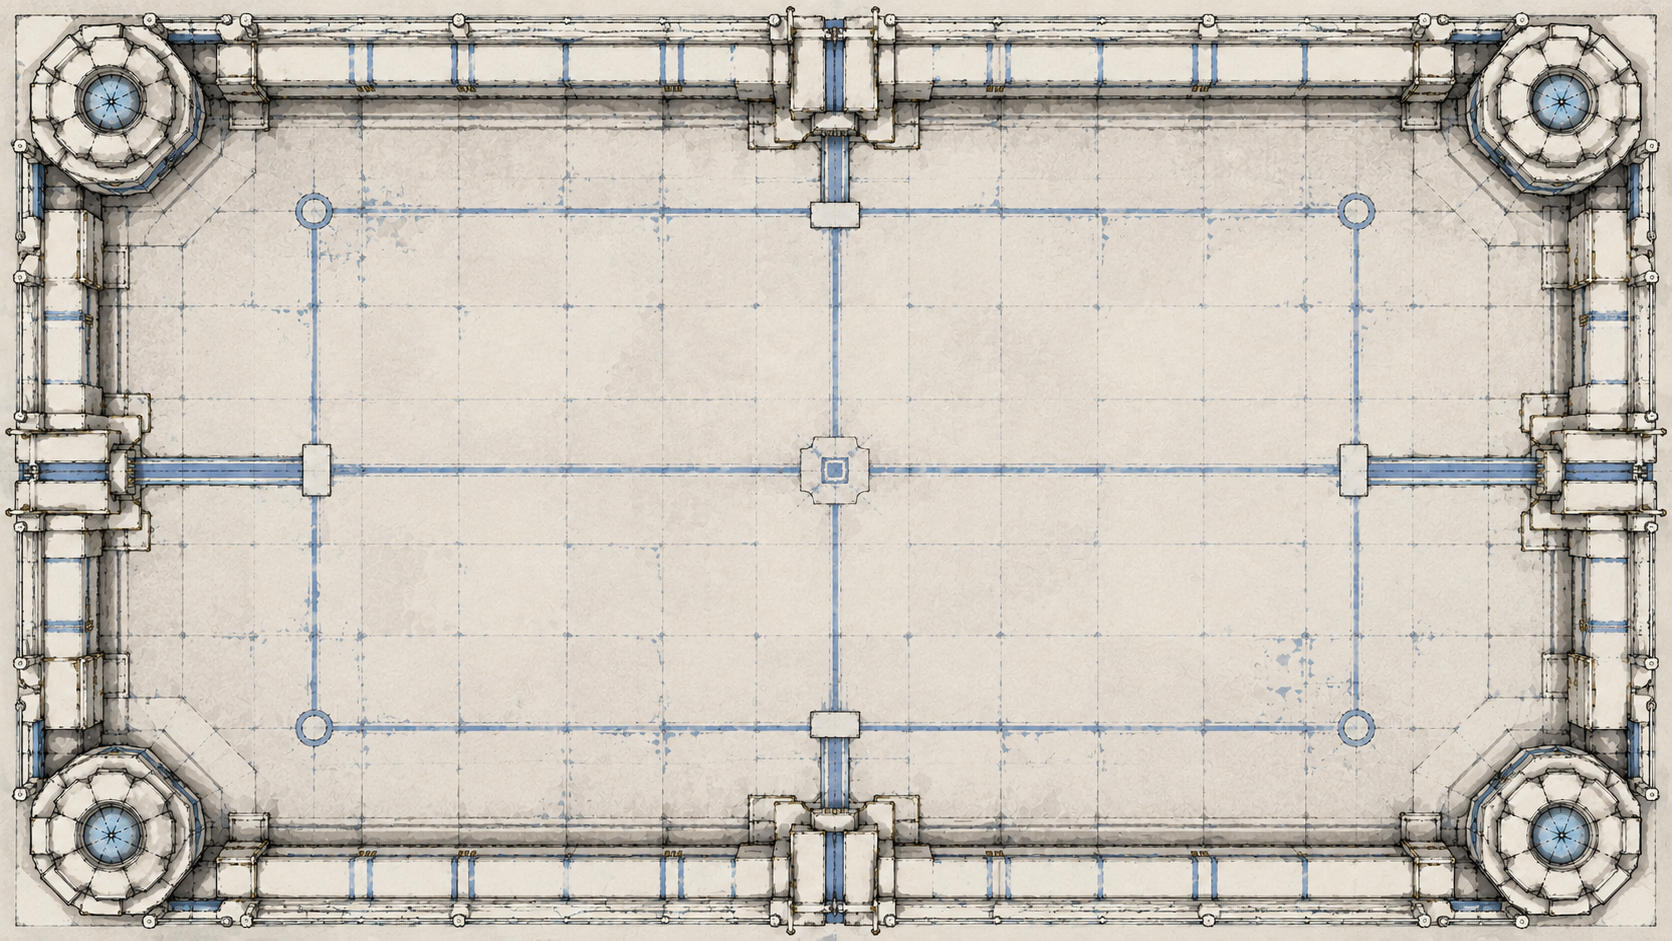
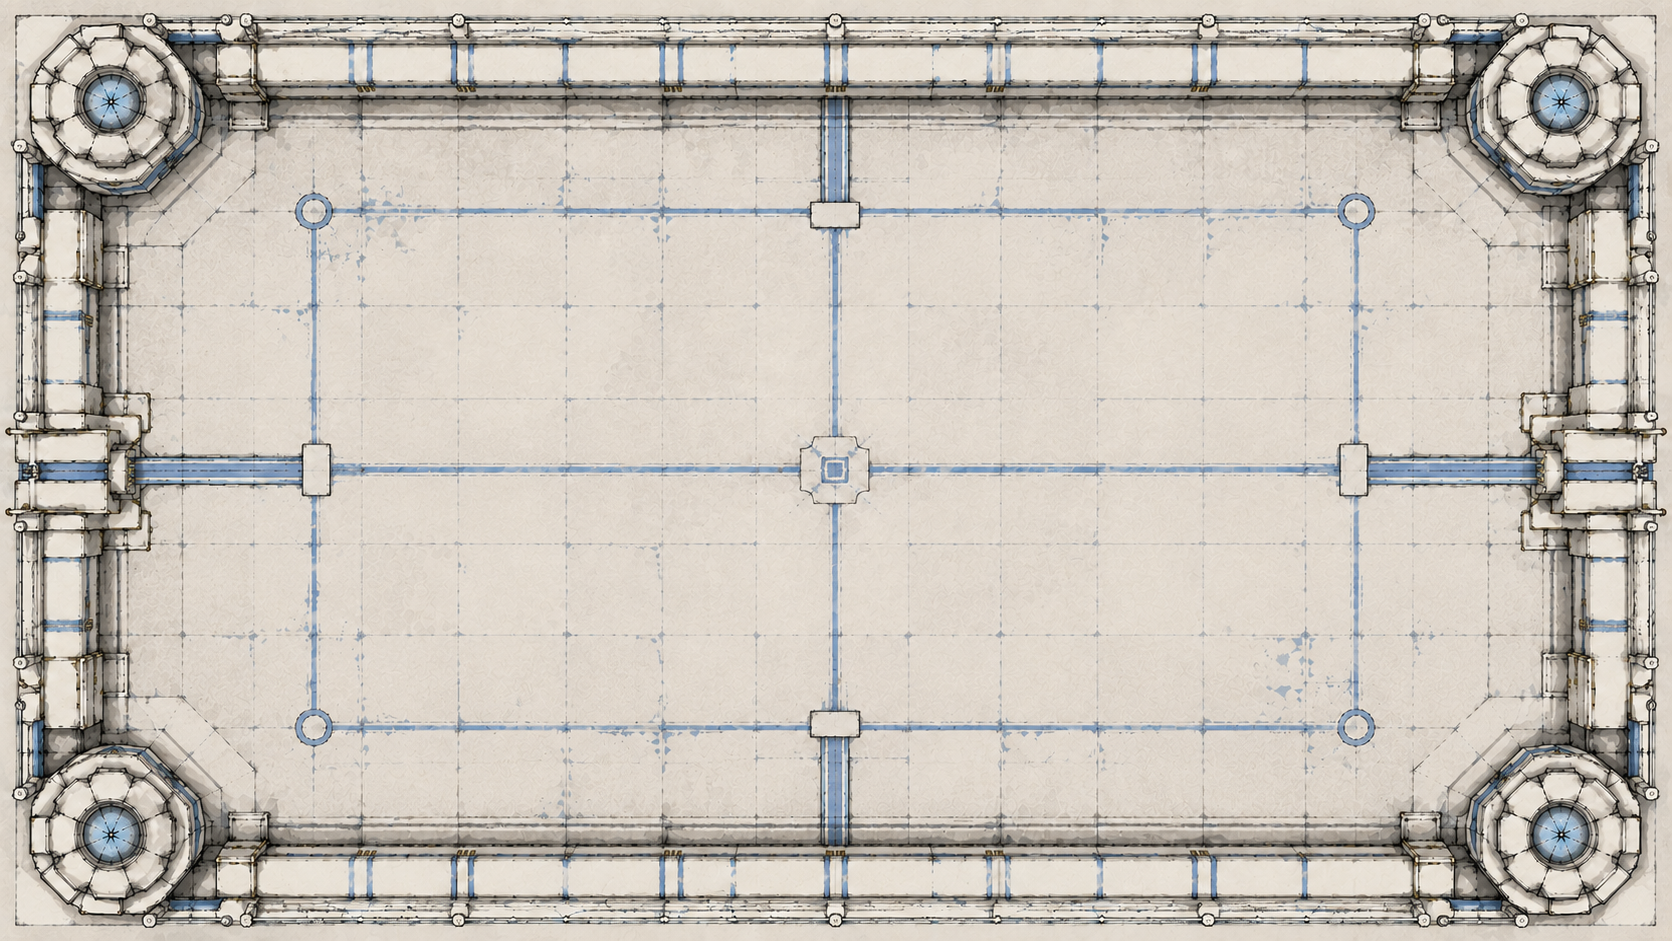
arena: integrate layered Old Sluice gate and collisions

diff --git a/tools/build_old_sluice_runtime_assets.py b/tools/build_old_sluice_runtime_assets.py
@@ -1,0 +1,70 @@
+#!/usr/bin/env python3
+"""Build Old Sluice runtime art from protected source assets."""
+
+from __future__ import annotations
+
+from pathlib import Path
+
+from PIL import Image
+
+
+ROOT = Path(__file__).resolve().parents[1]
+SOURCE_DIR = ROOT / "sprites_orig"
+ARENA_OUTPUT_DIR = ROOT / "godot" / "assets" / "arena"
+
+BACKGROUND_SOURCES = {
+    "arena_blue_guides_bg_new.png": "arena_blue_guides_bg.png",
+    "arena_red_fault_bg_new.png": "arena_red_fault_bg.png",
+    "arena_gold_boss_bg_new.png": "arena_gold_boss_bg.png",
+}
+
+GATE_SOURCE_SIZE = (1161, 973)
+GATE_FRAME_SIZE = (1161, 424)
+GATE_STATE_BOUNDS = (
+    (0, 8, 1161, 430),
+    (0, 541, 1161, 965),
+)
+
+
+def load_rgba(name: str, expected_size: tuple[int, int]) -> Image.Image:
+    path = SOURCE_DIR / name
+    image = Image.open(path).convert("RGBA")
+    if image.size != expected_size:
+        raise SystemExit(
+            f"{path.relative_to(ROOT)} has size {image.size}, expected {expected_size}"
+        )
+    return image
+
+
+def build_backgrounds() -> None:
+    ARENA_OUTPUT_DIR.mkdir(parents=True, exist_ok=True)
+    for source_name, output_name in BACKGROUND_SOURCES.items():
+        source_path = SOURCE_DIR / source_name
+        image = Image.open(source_path).convert("RGB")
+        image.save(ARENA_OUTPUT_DIR / output_name)
+
+
+def build_gate() -> None:
+    source = load_rgba("gate.png", GATE_SOURCE_SIZE)
+    frame_width, frame_height = GATE_FRAME_SIZE
+    runtime = Image.new(
+        "RGBA",
+        (frame_width * len(GATE_STATE_BOUNDS), frame_height),
+        (0, 0, 0, 0),
+    )
+
+    for frame_index, bounds in enumerate(GATE_STATE_BOUNDS):
+        state = source.crop(bounds)
+        y = (frame_height - state.height) // 2
+        runtime.alpha_composite(state, (frame_index * frame_width, y))
+
+    runtime.save(ARENA_OUTPUT_DIR / "gate_two_state_sheet.png")
+
+
+def main() -> None:
+    build_backgrounds()
+    build_gate()
+
+
+if __name__ == "__main__":
+    main()